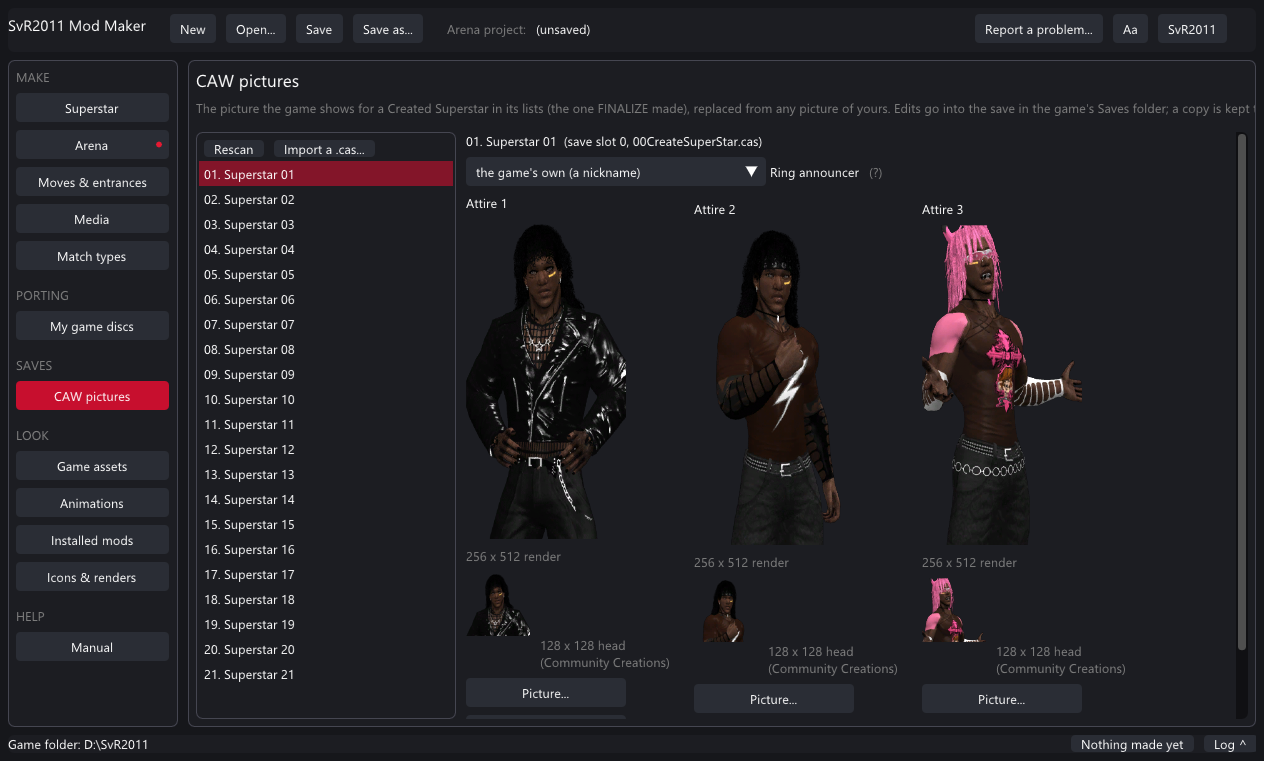
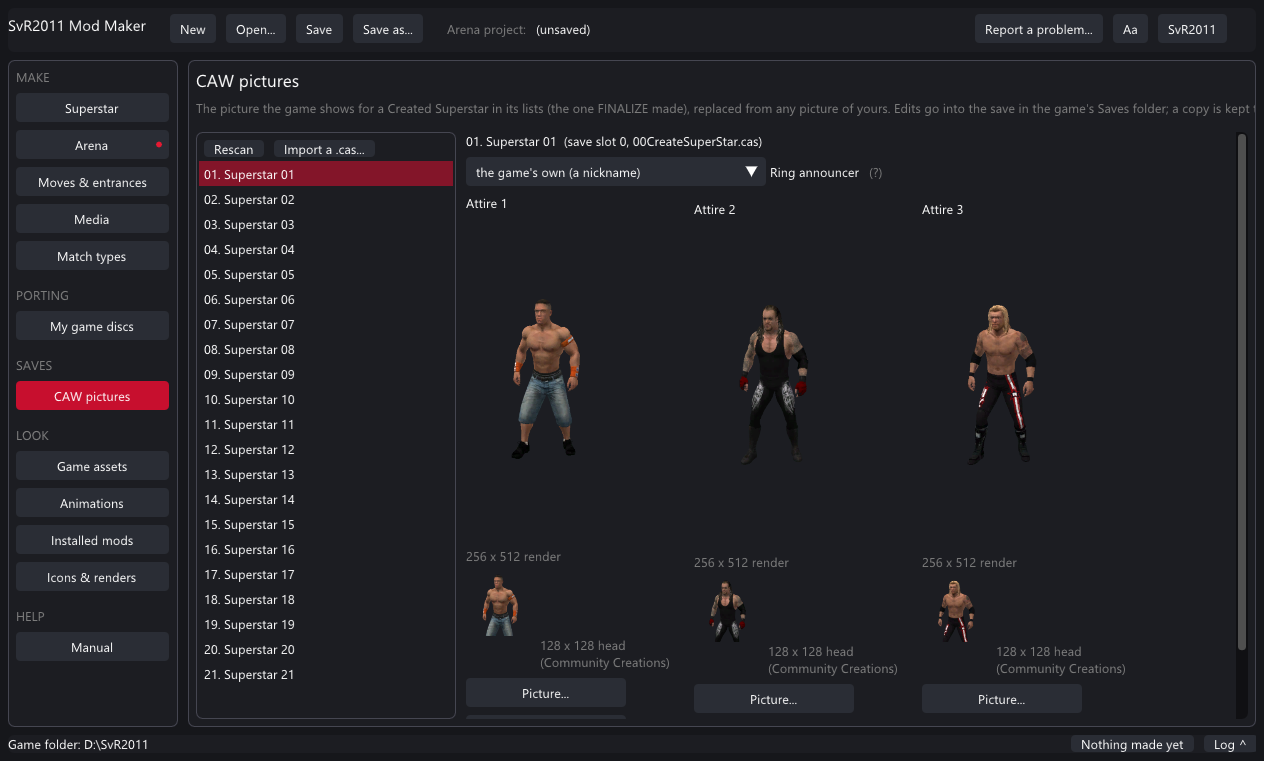
Mod Maker Guide and page text: current page names, no chat names
The guide says From another game, My game discs and the current tabs instead of Port page, Port from a disc and Other games. The Match types page, manual and guide say plainly that the game doesn't play custom match types yet (no chat name). The D:\Roms disc folder default is gone. caw.png, match_custom.png and manual.png retaken; caw.png shows stock superstars, no community player's work.

diff --git a/docs/guide/index.html b/docs/guide/index.html
@@ -112,7 +112,7 @@
   <div class="card"><h4>Moves</h4><p>Moves the game doesn't have, as a pack on its own or inside a superstar.</p></div>
   <div class="card"><h4>Crowd signs &amp; media</h4><p>Signs the crowd holds up; entrance videos, renders, themes, arena screens, menu music, sounds.</p></div>
   <div class="card"><h4>Match types</h4><p>Switches for the port's extra match types, and your own match types from the game's rules.</p></div>
-  <div class="card"><h4>Other games</h4><p>Superstars, arenas, moves and entrances from your other discs - Xbox 360 SvR 2007 to WWE 2K17 and all nine PS2 SmackDowns - read straight off the disc images.</p></div>
+  <div class="card"><h4>From another game</h4><p>Superstars, arenas, moves and entrances from your other discs - Xbox 360 SvR 2007 to WWE 2K17 and all nine PS2 SmackDowns - read straight off the disc images.</p></div>
   <div class="card"><h4>Look inside</h4><p>Every file of the game, every animation, every picture - browse, play, export.</p></div>
 </div>
 <figure>
@@ -150,7 +150,7 @@
 <ol class="steps">
   <li><b>Open it from the launcher.</b> On the launcher's <b>Mods</b> tab press <b>Open Mod Maker</b>. It then knows where the game is. Started on its own, it asks for the game folder (the one with the <code>pac</code> folder) once and remembers it; the button at the top right changes it.</li>
   <li><b>Direct3D 11</b> is all it needs for making mods. The window is fully resizable; <b>Aa</b> at the top right sets the text size.</li>
-  <li><b>Optional: Python 3</b> with numpy and Pillow, and <b>ffmpeg</b>: the launcher's <b>Setup</b> page (<i>First time setup</i>, it opens by itself on the launcher's first start) installs them into the game's <code>Tools</code> folder - <b>Install Python + numpy + Pillow</b> and <b>Install ffmpeg</b>. A Python 3 on PATH with <code>pip install numpy pillow</code> works too. Only needed for the <i>Other games</i> page's SvR 2010 / SvR 2008 / WWE '13 superstar converters, which run the port's Python tools from the <code>Mod Maker Tools</code> folder next to the Mod Maker. The page tells you what is missing.</li>
+  <li><b>Optional: Python 3</b> with numpy and Pillow, and <b>ffmpeg</b>: the launcher's <b>Setup</b> page (<i>First time setup</i>, it opens by itself on the launcher's first start) installs them into the game's <code>Tools</code> folder - <b>Install Python + numpy + Pillow</b> and <b>Install ffmpeg</b>. A Python 3 on PATH with <code>pip install numpy pillow</code> works too. Only needed for the <i>From another game</i> tabs' SvR 2010 / SvR 2008 / WWE '13 converters, which run the port's Python tools from the <code>Mod Maker Tools</code> folder next to the Mod Maker. The page tells you what is missing.</li>
   <li><b>Optional: Blender</b> (any recent version) to edit arenas as FBX.</li>
 </ol>
 <div class="tip"><b>Nothing you do here can break the game.</b> Mods live in <code>Mods\</code> inside the game folder and are laid over the game while it runs. A mod you don't like is one tick in the launcher away from off.</div>
@@ -227,25 +227,25 @@
   <li><b>Xbox 360</b>: SmackDown vs. Raw 2007, 2008, 2009 and 2010, Legends of WrestleMania (superstars, entrances and arenas; movesets stay the base's), WWE '12, '13, 2K14, 2K15, 2K16 and 2K17.</li>
   <li><b>PS2</b>, all nine: WWF SmackDown! Just Bring It, Shut Your Mouth, Here Comes the Pain, SmackDown! vs. Raw, SvR 2006, and the PS2 SvR 2007, 2008, 2009 and 2010.</li>
 </ul>
-<figure><img src="img/port.png" alt="The Port page: SvR 2009 picked, the Superstars tab listing the disc's superstars, which 2011 has, and Convert"><figcaption>SvR 2009's superstars, read off the disc: "has it" for the ones 2011 already has, "new" for the rest.</figcaption></figure>
+<figure><img src="img/port.png" alt="The Superstar page's From another game tab: SvR 2009 picked, the Superstars tab listing the disc's superstars, which 2011 has, and Convert"><figcaption>SvR 2009's superstars, read off the disc: "has it" for the ones 2011 already has, "new" for the rest.</figcaption></figure>
 <ol class="steps">
-  <li><b>Port from a disc</b> on the rail. <b>1. The disc</b>: your disc images are listed by game (the Mod Maker looks in <code>D:\Roms\Xbox 360\WWE</code> and <code>D:\Roms\Playstation 2\WWE Games</code>; <b>Game assets → Disc folders...</b> adds others). An extracted folder works too.</li>
+  <li>Open the <b>From another game</b> tab of the page for what you want: <b>Superstar</b>, <b>Arena</b>, <b>Moves &amp; entrances</b> or <b>Media</b> on the rail. <b>1. The disc</b>: the discs you set once in <b>My game discs</b> (PORTING on the rail) are listed by game. One file or an extracted folder works too.</li>
   <li>Pick what to port: <b>Superstars</b>, <b>Moves</b>, <b>Entrances</b>, <b>Arenas</b>, <b>Attires</b>, <b>Belts</b> or <b>Weapons</b>. The line under the tabs says whether this game is ready for it ("not portable yet" means its format is still being worked out).</li>
   <li><b>3. List what's on the disc.</b> Find one by name; tick <i>hide what 2011 already has</i> to see only what's new.</li>
   <li>Pick it, then <b>4. Convert</b>. It takes from seconds to a couple of minutes; the status line shows how far it is. A PS2 superstar can have more outfits than the four a mod holds: <b>Choose attires...</b> draws each of them - click up to four, the number on each is the attire it becomes in your mod (untouched: the first four).
-    <figure><img src="img/port_ps2.png" alt="The Port page with WWF SmackDown! Just Bring It: the superstar list, Kurt Angle picked, the Same moves only box and Convert"><figcaption>A PS2 disc: Just Bring It's superstars, Kurt Angle picked.</figcaption></figure></li>
+    <figure><img src="img/port_ps2.png" alt="The From another game tab with WWF SmackDown! Just Bring It: the superstar list, Kurt Angle picked, the Same moves only box and Convert"><figcaption>A PS2 disc: Just Bring It's superstars, Kurt Angle picked.</figcaption></figure></li>
   <li><b>5. Open it to finish</b>: a superstar opens on the Superstar page, an arena in the 3D editor, moves and entrances on the Moves page; belts and weapons install as a texture pack. What the conversion left out is listed under the button.</li>
 </ol>
 <h4>What comes with a superstar</h4>
 <p>The model (fitted to what the game holds), the pictures, the theme and titantron, the ratings and abilities (fitted onto 2011's), the entrance, and the superstar's own moveset and taunts. Each move slot gets the same 2011 move where 2011 has it; a move 2011 doesn't have is ported into a move pack inside the mod (WWE '12 and later), or - for the PS2 games - a <i>similar</i> 2011 move stands in. On the Superstar page the moveset marks those slots <span class="pill warn">similar</span>: hover one to see what it stands in for, and swap it if you like.</p>
 <p><b>Same moves only (no similar ones)</b> (PS2 games): ticked, only the moves 2011 has too come over; the rest keep the fighting style's.</p>
 <h4>Pictures for WWE 2K17</h4>
-<p>2K17's renders aren't named after the superstars, so the Port page can't tell which is whose. Picking a 2K17 superstar shows <b>The select picture</b>: every render on the disc. Click the one that is this superstar, or <b>No picture</b> to keep the base superstar's.</p>
-<figure><img src="img/port_pics.png" alt="The Port page with WWE 2K17: Steve Austin picked, the select picture picker with the disc's renders"><figcaption>WWE 2K17: pick the superstar's render yourself.</figcaption></figure>
+<p>2K17's renders aren't named after the superstars, so the Mod Maker can't tell which is whose. Picking a 2K17 superstar shows <b>The select picture</b>: every render on the disc. Click the one that is this superstar, or <b>No picture</b> to keep the base superstar's.</p>
+<figure><img src="img/port_pics.png" alt="The From another game tab with WWE 2K17: Steve Austin picked, the select picture picker with the disc's renders"><figcaption>WWE 2K17: pick the superstar's render yourself.</figcaption></figure>
 <h4>Arenas that can't be ported</h4>
 <p>Some arenas are greyed out in the list: hover one for why. Either it crashes 2011 when it loads (found by playing every converted arena), or it isn't an arena at all - in WWE '12 and later, bg60 and up are backstage rooms and studio / photo stages, which show a white mat over a black void on an arena slot.</p>
 <p><b>Entrances</b> have a <b>Full preview</b> button after converting: the whole entrance played before you install it (see <a href="#tut-preview">Watch a whole entrance</a>).</p>
-<div class="note"><b>Needs Python</b> (see <a href="#install">Setting up</a>): the converters are the port's Python tools. WWE '12 - 2K17 arenas convert without it (Other games page).</div>
+<div class="note"><b>Needs Python</b> (see <a href="#install">Setting up</a>): the converters are the port's Python tools. WWE '12 - 2K17 arenas convert without it (the Arena page's From another game tab).</div>
 <div class="tip"><b>The work folder</b> (<code>Mods\.convert\port</code> in the game folder) keeps the converters' copies of the disc's files - a superstar can take close to 1 GB. Its size shows on the page with <b>Clear it</b>; above 3 GB the oldest are removed after a conversion.</div>
 </section>
 
@@ -259,7 +259,7 @@
   <li><b>Look</b>: what your superstar looks like. Three ways in:
     <ul>
       <li><b>A superstar in the game</b>: click anyone on the roster.</li>
-      <li><b>From an older game</b>: pick one of your disc images (any game the <a href="#tut-port">Port page</a> reads), list its superstars, convert one, then choose <b>Just the look</b> or <b>Everything</b> (look, music, pictures, moves). From a PS2 game, <b>Choose attires...</b> picks which four of their outfits come over, in which order.</li>
+      <li><b>From an older game</b>: pick one of your disc images (any game <a href="#tut-port">From another game</a> reads), list its superstars, convert one, then choose <b>Just the look</b> or <b>Everything</b> (look, music, pictures, moves). From a PS2 game, <b>Choose attires...</b> picks which four of their outfits come over, in which order.</li>
       <li><b>Import a 3D model</b>: your own model as an FBX - see <a href="#tut-fbx">A superstar from a 3D model</a>.</li>
     </ul>
     <figure><img src="img/simple_look.png" alt="Simple mode, Look step: the Model and Materials tabs, the three ways in and the roster with pictures"><figcaption>Look: click a superstar on the roster.</figcaption></figure>
@@ -312,7 +312,7 @@
   <li><b>Model (ch.pac)</b>: press the button and pick <code>pac\ch\ch139.pac</code> from the game folder (John Cena's model). The preview shows it standing in its idle stance - drag to turn it. A model that doesn't load shows why under the preview.</li>
   <li>Optional: <b>Theme song</b> (mp3, m4a, wav, flac, wma, ogg), <b>Entrance movie</b> (press <b>From a video...</b> next to it to make the 320 x 320 Bink from any video or picture), <b>Attires 2-4</b> (another model pac's first attire each), <b>Crowd signs</b> the fans hold, a <b>Name recording</b> for the ring announcer, and the <b>Select picture</b> (a PNG with a transparent background looks best: it is cropped to the person, who fills the picture top to bottom like the game's renders; the bust, the model's own portrait and the face icon are made from it). <b>Game look</b> moves its tone toward the game's renders; <b>Bust picture</b> gives the small render its own head-and-shoulders picture, <b>Full body picture</b> the full-body render (otherwise the select picture is used).</li>
   <li><b>Moveset</b> (its own section): the style's moves slot by slot. Pick another for any slot by name - each slot lists the game's moves of its kind - and press <b>&gt;</b> to watch it in the preview, done to the style's superstar.</li>
-  <li>Optional, under <b>More</b>: the entrance - any installed one, by number and name, including the ones the Port page converts; <b>Full preview</b> plays it whole - an announcer name the game has clips of, the abilities and a move pack. Attires 2-4 can each have their own entrance.</li>
+  <li>Optional, under <b>More</b>: the entrance - any installed one, by number and name, including the ones the From another game tab converts; <b>Full preview</b> plays it whole - an announcer name the game has clips of, the abilities and a move pack. Attires 2-4 can each have their own entrance.</li>
   <li>Check the <b>Problems</b> at the bottom: red ones must go. Then <b>Save as mod</b> (a <code>.svrmod</code> to share) or <b>Install into game</b>, or <b>Test in game</b> to install and start the game right away.</li>
   <li>In the game: character select → the <b>M</b> tile (EXTRA) → your superstar is in the list, with a MODDED badge.</li>
 </ol>
@@ -353,9 +353,9 @@
 <p>A new attire for one of the game's superstars (or a superstar mod), or one replacing an attire they have - its own mod, on CHANGE ATTIRE.</p>
 <figure><img src="img/attires.png" alt="The Attires page: Matt Hardy picked, attire 3 chosen, a model in the preview"><figcaption>An attire for Matt Hardy: the slots he has, the free ones, the model in the preview.</figcaption></figure>
 <ol class="steps">
-  <li><b>Attires</b> on the rail. Pick the <b>Superstar</b>. The page shows the attires their model pac has.</li>
+  <li><b>Superstar</b> on the rail → the <b>Attires</b> tab. Pick the <b>Superstar</b>. The page shows the attires their model pac has.</li>
   <li><b>A new attire</b>, or <b>Replace</b> one (4 at most - the game's limit; slots marked <i>free?</i> are free if the game allows that superstar more).</li>
-  <li><b>Model (ch.pac)</b>: any character model pac - one of the game's, a superstar mod's, or one the Port page converted. Its first attire becomes this attire.</li>
+  <li><b>Model (ch.pac)</b>: any character model pac - one of the game's, a superstar mod's, or one the From another game tab converted. Its first attire becomes this attire.</li>
   <li>Give it a <b>name</b> for CHANGE ATTIRE and, if you like, its own <b>entrance</b>.</li>
   <li><b>Save as mod</b> or <b>Install into game</b>. The superstar's pictures stay theirs: the game has no per-attire render.</li>
 </ol>
@@ -379,7 +379,7 @@
 <p>A window that plays a whole entrance - all five parts, from the titantron intro to the pose in the ring - in the practice arena, with the entrance's own camera, the superstar's fingers, the theme and the titantron.</p>
 <figure><img src="img/fullpreview.jpg" alt="The Full preview window: John Cena walking down the ramp, the titantron playing at the right, the timeline at part 3 of 5"><figcaption>John Cena's entrance, part 3 of 5, with his titantron.</figcaption></figure>
 <ul>
-  <li>Open it with <b>Full preview</b> on the Superstar page (your superstar's entrance on your model, in its entrance gear) or on the Port page after converting an entrance.</li>
+  <li>Open it with <b>Full preview</b> on the Superstar page (your superstar's entrance on your model, in its entrance gear) or on the From another game tab after converting an entrance.</li>
   <li><b>Play</b>, <b>Restart</b> and the timeline; untick <b>The entrance's camera</b> to look around yourself (right drag turns, the wheel zooms), and the theme or the titantron to leave them out.</li>
   <li>Bink 2 titantrons (WWE 2K15 and later) need converting first: the window says so (see Bink 2 under <a href="#tut-other">From other games</a>).</li>
 </ul>
@@ -447,19 +447,19 @@
 <h2>Tutorial: a backstage room</h2>
 <figure><img src="img/backstage.png" alt="The GM's office in the 3D editor, opened from the Backstage page"><figcaption>The GM's office, opened from the Backstage page. Only that room is shown and edited.</figcaption></figure>
 <ol class="steps">
-  <li><b>Backstage</b> on the rail. Pick the area (parking lot, GM's office, locker rooms, interview area, catering) and press <b>Open the area in the 3D editor</b>.</li>
+  <li><b>Arena</b> on the rail → the <b>Backstage</b> tab. Pick the area (parking lot, GM's office, locker rooms, interview area, catering) and press <b>Open the area in the 3D editor</b>.</li>
   <li>Edit the room like an arena - but keep the floor and walls where they are (the game's cameras and the fighting box expect them). The cars, crates and weapons are placed by the game and are not shown.</li>
   <li>Name it. <b>Save as mod</b> or <b>Test in game</b>: the game plays your room in that area's backstage brawls. One backstage mod plays at a time.</li>
 </ol>
 <h4>An area of its own</h4>
-<p>Tick <b>An area of its own</b> to get a row of your own in ONE ON ONE → BACKSTAGE instead of replacing the room: give it a row name, a fight box (centre and half sizes in game units, 1 = 10 cm), a camera distance cap and a minimum camera height for small areas, and optionally a gimmick pac with the area's own cars and props. The <i>Other games</i> page's SvR 2008 tab makes a complete one from the 2008 Parking Lot.</p>
+<p>Tick <b>An area of its own</b> to get a row of your own in ONE ON ONE → BACKSTAGE instead of replacing the room: give it a row name, a fight box (centre and half sizes in game units, 1 = 10 cm), a camera distance cap and a minimum camera height for small areas, and optionally a gimmick pac with the area's own cars and props. The Arena page's <i>From another game</i> tab (SvR 2008 backstage) makes a complete one from the 2008 Parking Lot.</p>
 </section>
 
 <section id="tut-signs">
 <h2>Tutorial: crowd signs</h2>
 <figure><img src="img/signs.png" alt="The Crowd signs page with two signs added"><figcaption>Any picture becomes a sign: fitted onto a white 128 x 64 board.</figcaption></figure>
 <ol class="steps">
-  <li><b>Crowd signs</b> on the rail. Name the pack.</li>
+  <li><b>Media</b> on the rail → the <b>Crowd signs</b> tab. Name the pack.</li>
   <li><b>Add pictures...</b> - any pictures, several at once. Wide pictures fill the board best. Remove any with <i>remove</i>.</li>
   <li><b>Save as mod</b> or <b>Install</b>. The crowd holds your signs in every match, mixed with the game's own.</li>
 </ol>
@@ -481,9 +481,9 @@
 <section id="tut-moves">
 <h2>Tutorial: new moves</h2>
 <figure><img src="img/moves.png" alt="The Moves page listing a pack's moves with names, tracks and frames"><figcaption>A move pack opened: every move with its name, tracks (A attacker, V victim, numbers props and cameras) and frames.</figcaption></figure>
-<p>Moves the game doesn't have come as a <b>move pack</b>: the motions and the move's table records. Packs are made from your other discs by the <a href="#tut-port">Port page</a> (Moves tab), from SvR 2010 by the <i>Other games</i> page (SvR 2010 moves tab, or a whole superstar), or by hand with the port's tools.</p>
+<p>Moves the game doesn't have come as a <b>move pack</b>: the motions and the move's table records. Packs are made from your other discs or from SvR 2010 by the <a href="#tut-port">From another game</a> tabs (Moves &amp; entrances, or a whole superstar on the Superstar page), or by hand with the port's tools.</p>
 <ol class="steps">
-  <li><b>Moves</b> on the rail → <b>Open a pack folder...</b> (a folder with <code>pack.txt</code> and <code>motions\</code>). The page checks every line and lists the moves.</li>
+  <li><b>Moves &amp; entrances</b> on the rail → the <b>Move pack</b> tab → <b>Open a pack folder...</b> (a folder with <code>pack.txt</code> and <code>motions\</code>). The page checks every line and lists the moves.</li>
   <li>Red problems: missing motion files, bad records. Yellow: moves with motions but no category bits (they can't be put in a move-set - fine for reactions).</li>
   <li><b>Save as mod</b> (installs into <code>Mods\Moves</code>) - or, to carry the moves inside a superstar, pick the same folder on the Superstar page under <b>More → Move pack folder</b>.</li>
   <li>The game merges every enabled pack into copies of its files when it starts (a few seconds the first time, then only when a pack changes). Use the moves in CREATE A MOVE-SET: every move list ends with the packs' moves, named <b>MOD: &lt;move&gt;</b>.</li>
@@ -495,7 +495,7 @@
 <h2>Tutorial: port a move and use it</h2>
 <p>A move from SvR 2007 - 2009 or WWE '12 - 2K17 into a superstar's moveset, ready for a match. (A ported superstar brings its moves by itself.)</p>
 <ol class="steps">
-  <li><b>Port from a disc</b> → pick the disc → <b>Moves</b> tab → <b>3. List what's on the disc</b>. Find the move by name; tick <i>hide what 2011 already has</i>.</li>
+  <li><b>Moves &amp; entrances</b> → <b>From another game</b> tab → pick the disc → <b>Moves</b> → <b>3. List what's on the disc</b>. Find the move by name; tick <i>hide what 2011 already has</i>.</li>
   <li><b>Template (a 2011 move)</b>: the 2011 move the new one is built on - its table record (what kind of move it is, where it can be done, the damage) and its timing. <i>Automatic</i> picks one of the same kind; if the result shows a poor match (a powerbomb built on a strike), pick one by name - a powerbomb for a powerbomb - and convert again.</li>
   <li><b>4. Convert</b>. The move gets a free 2011 move number of its own (it never takes one another installed pack uses), and the page says which template it was built on. <b>5. Open it to finish</b> opens the pack on the Moves page.</li>
   <li><b>Install into game</b> on the Moves page (or <b>Save as mod</b> to share it).</li>
@@ -519,25 +519,25 @@
   <li><b>Custom match type</b>: pick a base match (by name, from the 119), a menu list and submenu for its row, people and free-for-all, the slots, an arena, the option rules you want set (with a lock to stop players changing them) and whose weapons lie around the ring. The <i>manifest.txt it writes</i> is shown at the bottom.</li>
   <li><b>The game's matches</b> is the reference: every rule record with "Use as the base".</li>
 </ol>
-<div class="warn"><b>Custom match types need the game side</b> that is being built after 2.0.5; the page writes the agreed format (<code>docs/MATCH_TYPE_MODS.md</code>) and warns until the game reads it. Custom types play offline, or online when both players have the mod.</div>
+<div class="warn"><b>The game doesn't play custom match types yet.</b> The page saves them in the format a later update will read, and warns until then.</div>
 </section>
 
 <section id="tut-other">
 <h2>Tutorial: from other games</h2>
-<figure><img src="img/other.png" alt="The Other games page: WWE '13 arena tab with the host arena choice and options"><figcaption>Five converters, each landing on its page to finish and save.</figcaption></figure>
+<figure><img src="img/other.png" alt="The Arena page's From another game tab: the WWE '12 - 2K17 arena part with the host arena choice and options"><figcaption>Five converters, each landing on its page to finish and save.</figcaption></figure>
 <h4>A WWE '12 - 2K17 arena (built in)</h4>
 <ol class="steps">
-  <li><b>Other games</b> → <b>WWE '12 - 2K17 arena</b>. Pick the arena's <code>pac\bg\bgNN.pac</code> (compressed or not) - or start from the Port page, which reads it off the disc.</li>
+  <li><b>Arena</b> on the rail → <b>From another game</b> tab → <b>WWE '12 - 2K17 arena</b>. Pick the arena's <code>pac\bg\bgNN.pac</code> (compressed or not), or one of your discs above it, which reads it off the disc.</li>
   <li>Pick the <b>host arena</b> - the 2011 arena whose room, ring and aprons it uses (RAW was used for the bundled ones). Name it.</li>
   <li><b>Options</b> if needed: host ring / aprons / crowd, barrier corners, the full rope, pruning unused pictures, role lights, the canvas tone, meshes to drop (a model over about 430 KB crashes the load; the report after a conversion names the heavy ones).</li>
   <li><b>Convert</b>. A minute later the arena opens in the 3D editor; the Arena page takes its banner and name; save.</li>
 </ol>
 <figure><img src="img/w13_converted.png" alt="A WWE '13 arena converted and open in the 3D editor"><figcaption>A WWE '13 arena after conversion, in the editor.</figcaption></figure>
 <h4>A WWE '13 superstar, an SvR 2010 superstar, SvR 2010 moves, the SvR 2008 backstage</h4>
-<p>These run the port's Python tools (see <a href="#install">Setting up</a>). Point each tab at the other game's extracted <code>pac</code> folder; the SvR 2010 superstar tab has a <b>Survey</b> that lists the ids and names. The result opens on the Superstar, Moves or Backstage page as a normal project. The <a href="#tut-port">Port page</a> does the same from the disc images, for more games.</p>
+<p>These run the port's Python tools (see <a href="#install">Setting up</a>). Point each tab at the other game's extracted <code>pac</code> folder; the SvR 2010 superstar tab has a <b>Survey</b> that lists the ids and names. The result opens on the Superstar, Moves or Backstage page as a normal project. Picking a disc at the top of the tab does the same from the disc images, for more games (see <a href="#tut-port">the tutorial</a>).</p>
 <h4>Bink 2 videos (WWE '13 and later)</h4>
 <p>bg60 and up in WWE '12 - 2K17 are backstage rooms and studio stages, not arenas: the page won't convert them.</p>
-<p>Titantrons and movies of the later games are Bink 2. <b>Enable Bink 2 conversion</b> on the Other games page points the Mod Maker at RAD Video Tools (free from RAD Game Tools) or an ffmpeg built with a Bink 2 decoder - neither comes with the Mod Maker. Then <b>From a video...</b> takes <code>.bk2</code> files, and converted entrances bring their titantron.</p>
+<p>Titantrons and movies of the later games are Bink 2. <b>Enable Bink 2 conversion</b> on the From another game tabs points the Mod Maker at RAD Video Tools (free from RAD Game Tools) or an ffmpeg built with a Bink 2 decoder - neither comes with the Mod Maker. Then <b>From a video...</b> takes <code>.bk2</code> files, and converted entrances bring their titantron.</p>
 </section>
 
 <section id="tut-caw">
@@ -588,16 +588,16 @@
 <table>
   <tr><th>Page</th><th>Makes</th><th>Installs into</th><th>Shows in the game</th></tr>
   <tr><td>Arena</td><td><code>type=arena</code>: arena.pac, banner.dds, load.dds, vs\*.dds</td><td>Mods\Arenas\&lt;id&gt;</td><td>arena select, pages after the game's</td></tr>
-  <tr><td>3D editor</td><td>the arena / room being edited</td><td>-</td><td>-</td></tr>
-  <tr><td>Backstage</td><td><code>type=backstage</code>: arena.pac (bg78), own-area keys, gimmick.pac</td><td>Mods\Backstage\&lt;id&gt;</td><td>that room's brawls, or its own row</td></tr>
+  <tr><td>Arena → 3D editor</td><td>the arena / room being edited</td><td>-</td><td>-</td></tr>
+  <tr><td>Arena → Backstage</td><td><code>type=backstage</code>: arena.pac (bg78), own-area keys, gimmick.pac</td><td>Mods\Backstage\&lt;id&gt;</td><td>that room's brawls, or its own row</td></tr>
   <tr><td>Superstar</td><td><code>type=superstar</code>: ch.pac, theme, movie, renders, signs, attires, moves</td><td>Mods\Superstars\&lt;id&gt;</td><td>the M tile (up to 137)</td></tr>
-  <tr><td>Attires</td><td><code>type=attire</code>: attire.pac</td><td>Mods\Attires\&lt;id&gt;</td><td>that superstar's CHANGE ATTIRE</td></tr>
-  <tr><td>Moves</td><td><code>type=moves</code>: pack.txt + motions\</td><td>Mods\Moves\&lt;id&gt;</td><td>CREATE A MOVE-SET</td></tr>
-  <tr><td>Crowd signs</td><td><code>type=signs</code>: NN_name.dds</td><td>Mods\Signs\&lt;id&gt;</td><td>the crowd, every match</td></tr>
+  <tr><td>Superstar → Attires</td><td><code>type=attire</code>: attire.pac</td><td>Mods\Attires\&lt;id&gt;</td><td>that superstar's CHANGE ATTIRE</td></tr>
+  <tr><td>Moves &amp; entrances → Move pack</td><td><code>type=moves</code>: pack.txt + motions\</td><td>Mods\Moves\&lt;id&gt;</td><td>CREATE A MOVE-SET</td></tr>
+  <tr><td>Media → Crowd signs</td><td><code>type=signs</code>: NN_name.dds</td><td>Mods\Signs\&lt;id&gt;</td><td>the crowd, every match</td></tr>
   <tr><td>Media</td><td><code>type=media</code>: videos, themes, renders, screens, sounds</td><td>Mods\Media\&lt;id&gt;</td><td>entrances, menus, arena screens</td></tr>
   <tr><td>Match types</td><td><code>type=matchtype</code>: manifest only</td><td>Mods\MatchTypes\&lt;id&gt;</td><td>the match menus</td></tr>
-  <tr><td>Port from a disc</td><td>conversions from your other discs → the pages above</td><td>-</td><td>-</td></tr>
-  <tr><td>Other games</td><td>conversions → the pages above</td><td>-</td><td>-</td></tr>
+  <tr><td>From another game (a tab on Superstar, Arena, Moves &amp; entrances and Media)</td><td>conversions from your other discs → the pages above</td><td>-</td><td>-</td></tr>
+  <tr><td>My game discs</td><td>nothing: your other WWE discs, set once</td><td>-</td><td>-</td></tr>
   <tr><td>CAW pictures</td><td>edits the Created Superstar saves</td><td>Saves\</td><td>the select lists</td></tr>
   <tr><td>Installed mods</td><td>nothing: every installed mod shown and checked (the mod doctor)</td><td>-</td><td>-</td></tr>
   <tr><td>Game assets / Animations / Icons &amp; renders</td><td>nothing: viewers and exporters</td><td>-</td><td>-</td></tr>
@@ -636,11 +636,11 @@ made_with=Mod Maker 2.0.5
 <h2>Problems and fixes</h2>
 <table>
   <tr><th>You see</th><th>What it means</th></tr>
-  <tr><td>"The model is not a character model pac (EPK8)"</td><td>The file isn't a <code>chNNN.pac</code>. Arena pacs and menu pacs are EPAC, not characters. A WWE '13 model must be converted first (Other games).</td></tr>
+  <tr><td>"The model is not a character model pac (EPK8)"</td><td>The file isn't a <code>chNNN.pac</code>. Arena pacs and menu pacs are EPAC, not characters. A WWE '13 model must be converted first (the From another game tab).</td></tr>
   <tr><td>"N textures halved to fit the game's room"</td><td>The arena was over its original's size; the biggest textures were shrunk. Use smaller pictures or fewer added objects to avoid it.</td></tr>
   <tr><td>"The game is running: close it first"</td><td>Installs and save edits need the game closed (it keeps its files and saves open).</td></tr>
   <tr><td>"ONE ON ONE is full: give the row a submenu"</td><td>That menu list shows at most 14 rows; a custom match type there needs a submenu.</td></tr>
-  <tr><td>"Needs Python 3 / numpy and Pillow / ffmpeg"</td><td>The converter tabs on Other games need them (see Setting up). Recheck after installing.</td></tr>
+  <tr><td>"Needs Python 3 / numpy and Pillow / ffmpeg"</td><td>The From another game tabs' converters need them (see Setting up). Recheck after installing.</td></tr>
   <tr><td>The arena loads as an empty hall or crashes</td><td>Make sure the mod says which arena it plays in place of (base) and that no model is over the size ceiling; the Size budget panel and the conversion report show the heavy ones.</td></tr>
   <tr><td>A superstar mod doesn't show up</td><td>137 is the limit; check the launcher's Mods tab that it is on; a mod needs <code>ch.pac</code> and a name.</td></tr>
   <tr><td>Theme too loud</td><td>Make it about -24 LUFS (the game's own are about 7 dB under full level).</td></tr>
@@ -649,8 +649,8 @@ made_with=Mod Maker 2.0.5
   <tr><td>"Make will cut it to about 10,500 vertices"</td><td>The game holds about that much of a wrestler. Fine for most models; for full control reduce it in Blender first.</td></tr>
   <tr><td>"No skin on ..." / "N vertices have no skin weights"</td><td>Those parts ride stiffly on a bone or stay at the hips. Give them weights (Blender: parent with automatic weights).</td></tr>
   <tr><td>"No picture for ...: it comes out plain grey"</td><td>The FBX doesn't link that part's texture. Pick a Colour picture for it in the Materials step, or export the FBX with its textures.</td></tr>
-  <tr><td>"The superstar's model needs N of the 192 memory pages ..."</td><td>A wrestler gets 192 pages in a match; over it, the game leaves the superstar out. Use a model with fewer vertices or without blood overlays (the Port page's conversions are fitted already).</td></tr>
-  <tr><td>A greyed arena on the Port page</td><td>It crashes 2011 at load, or it is a backstage room / studio stage, not an arena. Hover it for which.</td></tr>
+  <tr><td>"The superstar's model needs N of the 192 memory pages ..."</td><td>A wrestler gets 192 pages in a match; over it, the game leaves the superstar out. Use a model with fewer vertices or without blood overlays (From another game's conversions are fitted already).</td></tr>
+  <tr><td>A greyed arena on the From another game tab</td><td>It crashes 2011 at load, or it is a backstage room / studio stage, not an arena. Hover it for which.</td></tr>
   <tr><td>A move shows as "MOD: ..." in CREATE A MOVE-SET</td><td>It comes from a move pack (or a superstar mod's moves). That's normal; in the match it has its own name.</td></tr>
   <tr><td>"Attire N of ... is already used by ..."</td><td>An installed attire mod has that slot. The launcher moves the newer one to the next free attire; or pick the free one now.</td></tr>
 </table>

diff --git a/port/modmaker/match_page.cpp b/port/modmaker/match_page.cpp
@@ -261,9 +261,8 @@ void SwitchTab() {
 
 void CustomTab() {
   ImGui::TextWrapped("A match type of your own: one of the game's matches as the base, under a new row in a menu "
-                     "list, with its own people, slots, arena, option rules and weapons. The game builds it at start "
-                     "the way it builds the port's added matches.");
-  ImGui::TextColored(kWarn, "The game side is being built (Limit Breaking): this page writes the format it will read.");
+                     "list, with its own people, slots, arena, option rules and weapons.");
+  ImGui::TextColored(kWarn, "The game doesn't play custom match types yet: this page saves them in the format a later update will read.");
   ImGui::Spacing();
   TextField("Name", g_p.name, sizeof g_p.name, "the match type's name");
   TextField("About (optional)", g_p.about, sizeof g_p.about, "one line for the launcher", 420);

diff --git a/port/modmaker/assets_page.cpp b/port/modmaker/assets_page.cpp
@@ -749,8 +749,8 @@ void SourceRow() {
     }
     ImGui::EndCombo();
   }
-  Hint(("Look inside this game, or straight inside your other WWE discs (Xbox 360 and PS2 disc images, nothing "
-        "extracted): the disc images in the disc folders (" + Utf8(DiscFolders()[0]) + " ...) are listed by game. "
+  Hint(std::string("Look inside this game, or straight inside your other WWE discs (Xbox 360 and PS2 disc images, nothing "
+        "extracted): the disc images in the disc folders are listed by game. "
         "WWE '13 and later pack most files with xcompress; they are unpacked when opened.").c_str());
   ImGui::SameLine();
   if (ImGui::SmallButton("Disc folders...")) {

diff --git a/port/modmaker/disc_list.cpp b/port/modmaker/disc_list.cpp
@@ -545,7 +545,7 @@ void Draw() {
     PopAccent();
     ImGui::EndDisabled();
     if (ImGui::IsItemHovered(ImGuiHoveredFlags_AllowWhenDisabled))
-      ImGui::SetTooltip("Pick a folder (e.g. D:\\Roms): it and everything under it is searched for .iso files and extracted "
+      ImGui::SetTooltip("Pick a folder: it and everything under it is searched for .iso files and extracted "
                         "game folders, and each disc is recognised by its id. Games you already set stay as they are.");
     ImGui::SetCursorPos(after);
   }

diff --git a/port/modmaker/app.cpp b/port/modmaker/app.cpp
@@ -2226,8 +2226,7 @@ std::string DiscGameName(const std::string& id) {
 }
 
 std::vector<std::wstring> DiscFolders() {
-  if (!g_settings.disc_folders.empty()) return g_settings.disc_folders;
-  return {L"D:\\Roms\\Xbox 360\\WWE", L"D:\\Roms\\Playstation 2\\WWE Games"};
+  return g_settings.disc_folders;
 }
 
 // Discs() is My game discs (disc_list.h): each set game whose image / folder is there, in its order.

diff --git a/docs/MOD_MAKER_MANUAL.md b/docs/MOD_MAKER_MANUAL.md
@@ -304,9 +304,9 @@ Match type mods (`type=matchtype`, a manifest only). Two kinds:
 - **Custom match type:** one of the game's matches as the base (picked by
   name from the 119 rules), under a new row in a menu list (and submenu),
   with its own people, slots (index, team, kind), arena, option rules with
-  locks, placed weapons and Match Creator rows. The game side that builds
-  these at start is being made by the Limit Breaking work; the page writes
-  the format it will read (docs/MATCH_TYPE_MODS.md) and warns until then.
+  locks, placed weapons and Match Creator rows. The game doesn't play
+  custom match types yet: the page saves them in the format a later update
+  will read, and warns until then.
 - **The game's matches:** every rule record decoded - participants, arena,
   option rules - as reference, with "Use as the base".
 
